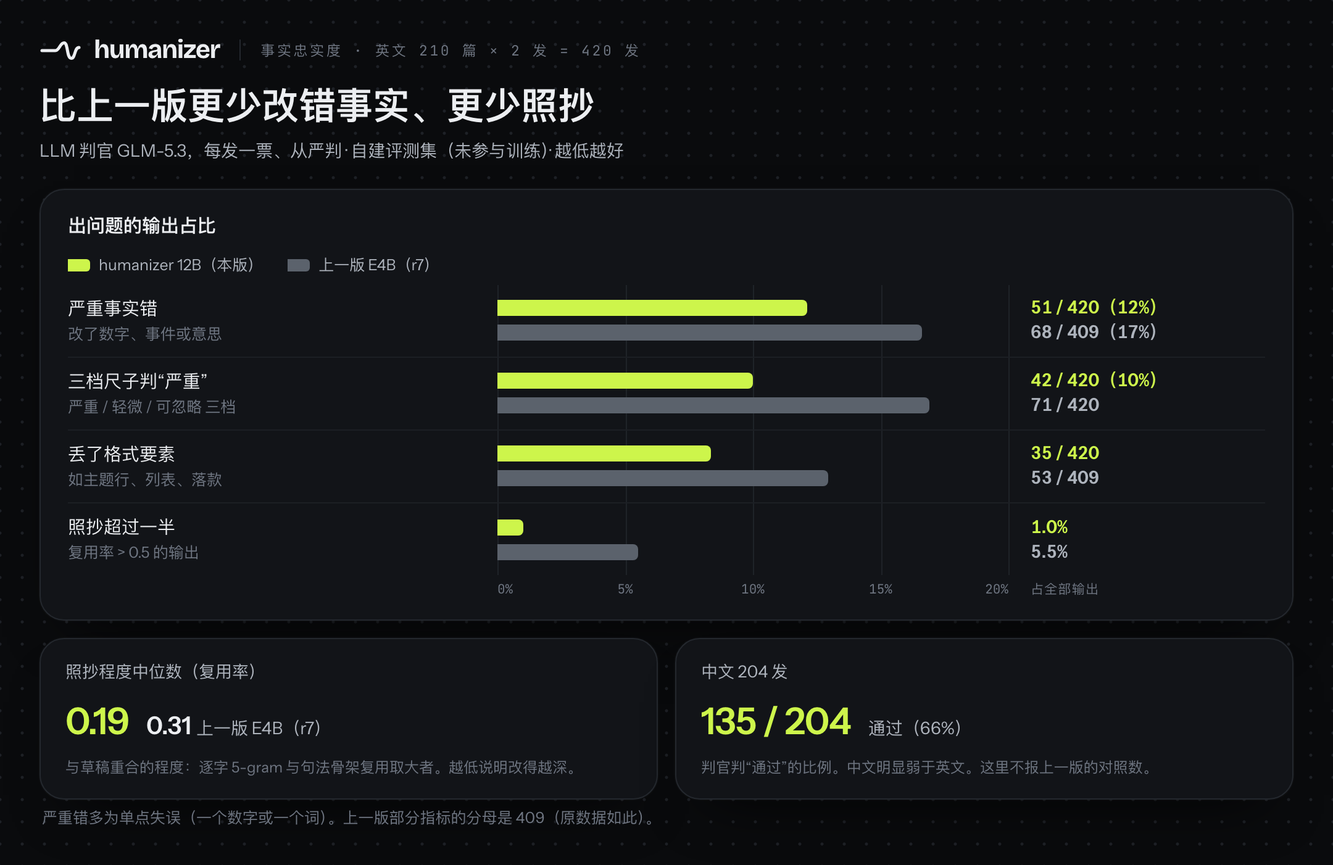
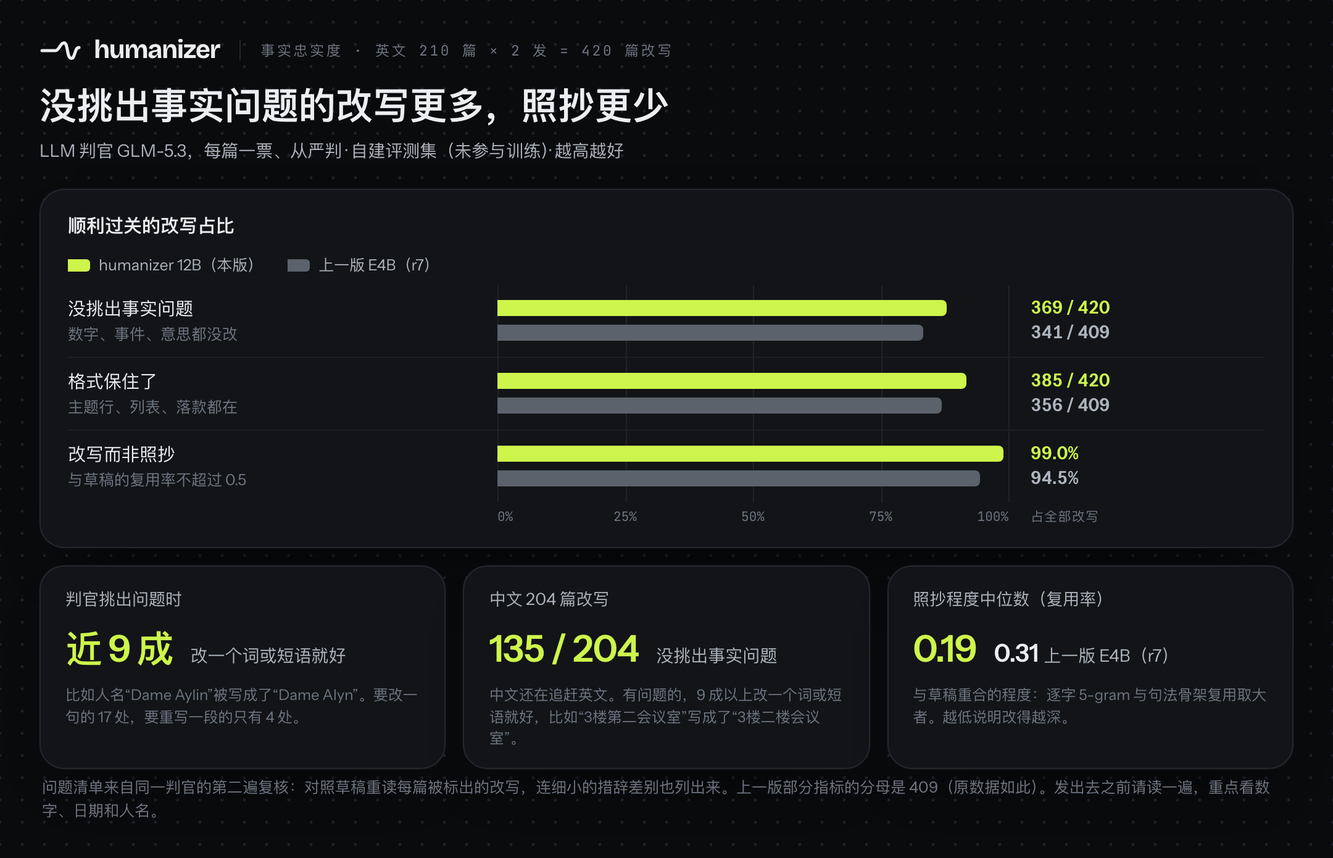
docs: describe fact fidelity by clean rewrites and fix size
Lead with how many rewrites had no factual problem (English 369/420 vs
341/409 for r7; Chinese 135/204) and how small the fixes are (nearly 9 in
10 English and more than 9 in 10 Chinese fixes are one word or phrase,
from a second judge pass over every flagged rewrite), with real examples.
Drop failure percentages and the three-tier severity row; keep the advice
to proofread numbers, dates and names. Redraw the fidelity chart.

Claude-Session: https://claude.ai/code/session_018dUyskQQUkZnxRhqQU9hXt

diff --git a/assets/src/fidelity.html b/assets/src/fidelity.html
@@ -21,6 +21,7 @@
   .legend span { display: inline-flex; align-items: center; gap: 7px; }
   .legend i { width: 18px; height: 10px; border-radius: 0 3px 3px 0; background: #5B626C; }
   .legend i.me { background: var(--lime); }
+  .tiles.t3 { grid-template-columns: 1fr 1fr 1fr; }
 </style>
 </head>
 <body>
@@ -30,38 +31,44 @@ import { lang, markSvg, esc, done } from './common.js';
 import { barRows, axis } from './chart.js';
 const zh = lang === 'zh';
 
-// 全部数字来自 release_facts.md「事实忠实度」一节(英文 420 发,GLM-5.3 单票从严)。条长按分数算,轴 0–20%。
-const MAX = 0.20;
+// 数字来自 release_facts.md「事实忠实度」一节(英文 420 发,GLM-5.3 单票从严)和 experiments/fact_errors/RLRt_summary.json
+// (第二遍复核:对照草稿重读每篇被标出的改写,列出每处问题和要改多少)。全图统一"越高越好",条长按分数算,轴 0–100%。
+// 事实错不报失败百分比:报"没挑出事实问题"的篇数 + 有问题时改一个词或短语就好的比例。
+const MAX = 1;
 const me = zh ? 'humanizer 12B（本版）' : 'humanizer 12B (this release)';
 const prev = zh ? '上一版 E4B（r7）' : 'previous E4B (r7)';
 const Q = zh ? [
-  ['严重事实错', '改了数字、事件或意思', [51 / 420, '51 / 420（12%）'], [68 / 409, '68 / 409（17%）']],
-  ['三档尺子判“严重”', '严重 / 轻微 / 可忽略 三档', [42 / 420, '42 / 420（10%）'], [71 / 420, '71 / 420']],
-  ['丢了格式要素', '如主题行、列表、落款', [35 / 420, '35 / 420'], [53 / 409, '53 / 409']],
-  ['照抄超过一半', '复用率 > 0.5 的输出', [0.010, '1.0%'], [0.055, '5.5%']],
+  ['没挑出事实问题', '数字、事件、意思都没改', [369 / 420, '369 / 420'], [341 / 409, '341 / 409']],
+  ['格式保住了', '主题行、列表、落款都在', [385 / 420, '385 / 420'], [356 / 409, '356 / 409']],
+  ['改写而非照抄', '与草稿的复用率不超过 0.5', [0.990, '99.0%'], [0.945, '94.5%']],
 ] : [
-  ['Severe fact error', 'changed a number, an event or the meaning', [51 / 420, '51 / 420 (12%)'], [68 / 409, '68 / 409 (17%)']],
-  ['“Severe” on a three-level scale', 'severe / minor / negligible', [42 / 420, '42 / 420 (10%)'], [71 / 420, '71 / 420']],
-  ['Dropped a format element', 'e.g. subject line, list, sign-off', [35 / 420, '35 / 420'], [53 / 409, '53 / 409']],
-  ['Copied more than half the draft', 'outputs with reuse > 0.5', [0.010, '1.0%'], [0.055, '5.5%']],
+  ['No factual problem found', 'no changed number, event or meaning', [369 / 420, '369 / 420'], [341 / 409, '341 / 409']],
+  ['Kept the format', 'subject line, lists, sign-off all there', [385 / 420, '385 / 420'], [356 / 409, '356 / 409']],
+  ['Rewritten, not copied', 'reuse of the draft at most 0.5', [0.990, '99.0%'], [0.945, '94.5%']],
 ];
 const T = zh ? {
-  eye: '事实忠实度 · 英文 210 篇 × 2 发 = 420 发', h: '比上一版更少改错事实、更少照抄',
-  sub: 'LLM 判官 GLM-5.3，每发一票、从严判 · 自建评测集（未参与训练）· 越低越好',
-  p: '出问题的输出占比', ax: '占全部输出',
+  eye: '事实忠实度 · 英文 210 篇 × 2 发 = 420 篇改写', h: '没挑出事实问题的改写更多，照抄更少',
+  sub: 'LLM 判官 GLM-5.3，每篇一票、从严判 · 自建评测集（未参与训练）· 越高越好',
+  p: '顺利过关的改写占比', ax: '占全部改写',
+  t0k: '判官挑出问题时', t0b: '近 9 成', t0s: '改一个词或短语就好',
+  t0n: '比如人名“Dame Aylin”被写成了“Dame Alyn”。要改一句的 17 处，要重写一段的只有 4 处。',
   t1k: '照抄程度中位数（复用率）', t1n: '与草稿重合的程度：逐字 5-gram 与句法骨架复用取大者。越低说明改得越深。',
-  t2k: '中文 204 发', t2n: '判官判“通过”的比例。中文明显弱于英文。这里不报上一版的对照数。', t2b: '135 / 204', t2s: '通过（66%）',
-  foot: '严重错多为单点失误（一个数字或一个词）。上一版部分指标的分母是 409（原数据如此）。',
+  t2k: '中文 204 篇改写', t2b: '135 / 204', t2s: '没挑出事实问题',
+  t2n: '中文还在追赶英文。有问题的，9 成以上改一个词或短语就好，比如“3楼第二会议室”写成了“3楼二楼会议室”。',
+  foot: '问题清单来自同一判官的第二遍复核：对照草稿重读每篇被标出的改写，连细小的措辞差别也列出来。上一版部分指标的分母是 409（原数据如此）。发出去之前请读一遍，重点看数字、日期和人名。',
 } : {
-  eye: 'Fact fidelity · English, 210 drafts × 2 samples = 420 outputs', h: 'Fewer changed facts and less copying than the previous release',
-  sub: 'LLM judge GLM-5.3, one strict vote per output · held-out eval set (not used in training) · lower is better',
-  p: 'Share of outputs with the problem', ax: 'of all outputs',
+  eye: 'Fact fidelity · English, 210 drafts × 2 samples = 420 rewrites', h: 'More rewrites with no factual problem, and less copying',
+  sub: 'LLM judge GLM-5.3, one strict vote per rewrite · held-out eval set (not used in training) · higher is better',
+  p: 'Share of rewrites that came through clean', ax: 'of all rewrites',
+  t0k: 'When the judge did find a problem', t0b: 'nearly 9 in 10', t0s: 'fixes are one word or phrase',
+  t0n: 'E.g. the name “Dame Aylin” came out as “Dame Alyn”. 17 fixes took one sentence; only 4 needed a passage rewritten.',
   t1k: 'Median reuse', t1n: 'Overlap with the draft: the larger of verbatim 5-gram copy and syntactic-skeleton reuse. Lower means a deeper rewrite.',
-  t2k: 'Chinese, 204 outputs', t2n: 'Passed by the judge. Chinese is clearly weaker than English. No previous-release comparison is reported here.', t2b: '135 / 204', t2s: 'passed (66%)',
-  foot: 'Severe errors are mostly single slips (one number or one word). Some previous-release rows have 409 judged outputs, as recorded.',
+  t2k: 'Chinese, 204 rewrites', t2b: '135 / 204', t2s: 'no factual problem found',
+  t2n: 'Still catching up with English. More than 9 in 10 fixes are one word or phrase, e.g. “3楼第二会议室” became “3楼二楼会议室”.',
+  foot: 'Problems were listed by a second pass of the same judge, which re-read each flagged rewrite against its draft and lists every nitpick, down to small wording nuances. Some previous-release rows have 409 judged rewrites, as recorded. Read numbers, dates and names before you send.',
 };
 
-const tk = ['0%', '5%', '10%', '15%', '20%'];
+const tk = ['0%', '25%', '50%', '75%', '100%'];
 document.getElementById('m').innerHTML = `
   <header class="hd"><span class="brand">${markSvg()}<b>humanizer</b></span><span class="eyebrow">${esc(T.eye)}</span></header>
   <h2>${esc(T.h)}</h2><p class="sub">${esc(T.sub)}</p>
@@ -74,9 +81,10 @@ document.getElementById('m').innerHTML = `
         <div class="vals"><b class="me">${esc(a[1])}</b><b>${esc(b[1])}</b></div></div>`).join('')}</div>
     ${axis(tk, T.ax)}
   </section>
-  <div class="tiles">
-    <section class="tile sheet"><div class="k">${esc(T.t1k)}</div><div class="v"><b>0.19</b><span><em>0.31</em>${esc(prev)}</span></div><div class="n">${esc(T.t1n)}</div></section>
+  <div class="tiles t3">
+    <section class="tile sheet"><div class="k">${esc(T.t0k)}</div><div class="v"><b>${esc(T.t0b)}</b><span>${esc(T.t0s)}</span></div><div class="n">${esc(T.t0n)}</div></section>
     <section class="tile sheet"><div class="k">${esc(T.t2k)}</div><div class="v"><b>${T.t2b}</b><span>${esc(T.t2s)}</span></div><div class="n">${esc(T.t2n)}</div></section>
+    <section class="tile sheet"><div class="k">${esc(T.t1k)}</div><div class="v"><b>0.19</b><span><em>0.31</em>${esc(prev)}</span></div><div class="n">${esc(T.t1n)}</div></section>
   </div>
   <p class="foot">${esc(T.foot)}</p>`;
 await done();

diff --git a/space/page.py b/space/page.py
@@ -176,10 +176,10 @@ def examples_section(examples) -> str:
   <h2 class="sec-title">{L("Real before and after", "改写前后，真实输出")}</h2>
   {P("Drafts from our held-out evaluation set, never seen in training. The right side is the released model's first sample, not edited; only whitespace is normalised. "
      "<span class='ins'>Highlight</span> = new wording, <span class='del'>strikethrough</span> = draft wording that was replaced. "
-     "We picked these for readability from samples our fact judge passed. Across the whole set the model does make fact errors; the rates are below.",
+     "We picked these for readability from samples our fact judge passed. Across the whole set the model does sometimes change a detail; how often, and how small, is below.",
      "草稿来自留出评测集，训练时从没见过。右边是发布版模型的第一发，未经任何修改，只统一了空白。"
      "<span class='ins'>荧光笔</span> = 新写的，<span class='del'>删除线</span> = 被改掉的原文。"
-     "这几篇是从事实判官判为通过的样本里挑的，为了好读；放到整个评测集上，模型是会改错事实的，比例见下方。",
+     "这几篇是从事实判官判为通过的样本里挑的，为了好读；放到整个评测集上，模型偶尔会改错细节，多常见、错得多小，见下方。",
      "sec-lede")}
   <div class="ex-wrap">
     {"".join(radios)}
@@ -264,11 +264,12 @@ def results_section() -> str:
         ("26 / 210", L("English drafts flagged as AI by Originality.ai", "篇英文草稿被 Originality.ai 判为 AI"),
          L("API v3, AI Allowance 0% (its strictest setting), measured 2026-10-01, first sample of each draft. 88% judged human.",
            "API v3，AI Allowance 0%（最严档），2026-10-01 实测，每篇取第 1 发。88% 判为人写。")),
-        ("51 / 420", L("English outputs with a severe fact error (12%)", "发英文输出有严重事实错（12%）"),
-         L("Changed a number, an event or the meaning. Strict LLM judge (GLM-5.3), one vote per output. Previous E4B release: 68 / 409 (17%).",
-           "改了数字、事件或意思。LLM 判官 GLM-5.3，每发一票、从严。上一版 E4B：68 / 409（17%）。")),
-        ("135 / 204", L("Chinese outputs passed the fact judge (66%)", "发中文输出通过事实判官（66%）"),
-         L("Chinese is clearly weaker than English.", "中文明显弱于英文。")),
+        ("369 / 420", L("English rewrites with no factual problem found", "篇英文改写，判官没挑出事实问题"),
+         L("Strict LLM judge (GLM-5.3), one vote per rewrite. Previous E4B release: 341 / 409. Where it did find a problem, nearly 9 in 10 fixes are a single word or phrase, like the name “Dame Aylin” coming out as “Dame Alyn”.",
+           "LLM 判官 GLM-5.3，每篇一票、从严。上一版 E4B：409 篇里 341 篇。有问题的，近 9 成改一个词或短语就好，比如人名“Dame Aylin”被写成了“Dame Alyn”。")),
+        ("135 / 204", L("Chinese rewrites with no factual problem found", "篇中文改写，判官没挑出事实问题"),
+         L("Chinese is still catching up with English. Where the judge found a problem, more than 9 in 10 fixes are a single word or phrase, like “3楼第二会议室” becoming “3楼二楼会议室”.",
+           "中文还在追赶英文。有问题的，9 成以上改一个词或短语就好，比如“3楼第二会议室”写成了“3楼二楼会议室”。")),
         ("0.19", L("median reuse of the draft", "照抄程度中位数（复用率）"),
          L("The larger of verbatim 5-gram copy and syntactic-skeleton reuse; lower means a deeper rewrite. Previous release: 0.31.",
            "取逐字 5-gram 照抄和句法骨架复用里较大的那个，越低改得越深。上一版：0.31。")),
@@ -311,10 +312,10 @@ def results_section() -> str:
 
 def limits_section() -> str:
     items = [
-        ("<b>It still makes fact errors.</b> 51 of 420 English outputs (12%) had a severe one by a strict LLM judge; most are a single number or word. Read the output before you use it.",
-         "<b>还是会改错事实。</b>英文 420 发里有 51 发（12%）被从严的 LLM 判官判出严重错，多数是错一个数字或一个词。用之前请通读。"),
-        ("<b>Chinese is weaker</b> than English: the judge passed 135 of 204 Chinese outputs (66%).",
-         "<b>中文弱于英文：</b>中文 204 发里判官判通过 135 发（66%）。"),
+        ("<b>It can still change a detail.</b> A strict LLM judge found no factual problem in 369 of 420 English rewrites; where it found one, nearly 9 in 10 fixes are a single word or phrase, such as a misspelled name. Read the result before you send it, especially numbers, dates and names.",
+         "<b>细节还可能出错。</b>英文 420 篇改写里，从严的 LLM 判官在 369 篇里没挑出事实问题；有问题的，近 9 成改一个词或短语就好，比如拼错一个人名。发出去之前还是请读一遍，重点看数字、日期和人名。"),
+        ("<b>Chinese is still catching up with English:</b> no factual problem in 135 of 204 Chinese rewrites; where there was one, more than 9 in 10 fixes are a single word or phrase.",
+         "<b>中文还在追赶英文：</b>中文 204 篇改写里 135 篇判官没挑出事实问题；有问题的，9 成以上改一个词或短语就好。"),
         ("<b>Templated genres still look machine-made to detectors:</b> social posts with emoji, hashtags or numbered threads (8/16 flagged) and formal policy memos (5/13).",
          "<b>模板化体裁仍容易被检测器认出：</b>带 emoji、井号或编号连载的社交帖（8/16 被判 AI），正式政策备忘（5/13）。"),
         ("<b>Formatting is not always kept.</b> 35 of 420 outputs dropped a format element. Paragraph breaks and list or heading markup sometimes change.",

diff --git a/README.md b/README.md
@@ -72,7 +72,7 @@ On stderr it lists every piece where a number from the draft is missing in the r
 
 ## Before and after
 
-Four drafts from the held-out evaluation set (never seen in training). The right side is the model's **first sample, not edited**; only whitespace is normalised for display. Highlight = new wording, strikethrough = draft wording that was replaced. We picked these four by hand for readability and checked every number and name in them. Across the whole set the model does make fact errors; the rates are in [Results](#results).
+Four drafts from the held-out evaluation set (never seen in training). The right side is the model's **first sample, not edited**; only whitespace is normalised for display. Highlight = new wording, strikethrough = draft wording that was replaced. We picked these four by hand for readability and checked every number and name in them. Across the whole set the model does sometimes change a detail; how often, and how small those slips are, is in [Results](#results).
 
 <img src="assets/compare-en-email.png" alt="Work email: draft and rewrite" width="100%">
 
@@ -128,21 +128,22 @@ The detection rate is the same as the previous release. What the 12B improves is
 
 <img src="assets/results-fidelity-en.png" alt="Fact fidelity compared with the previous release" width="100%">
 
-English, 420 outputs (210 drafts × 2), graded by an LLM judge (GLM-5.3), one strict vote per output. Lower is better.
+**369 of 420 English rewrites came back with no factual problem** from a strict LLM judge (GLM-5.3, one vote per rewrite; 210 drafts × 2 samples). The previous release: 341 of 409.
 
 | | **humanizer 12B (this release)** | humanizer E4B (previous, r7) |
 |---|---|---|
-| Severe fact error (changed a number, an event or the meaning) | **51 / 420 (12%)** | 68 / 409 (17%) |
-| "Severe" on a three-level scale (severe / minor / negligible) | **42 / 420 (10%)** | 71 / 420 |
-| Dropped a format element (e.g. subject line, list, sign-off) | **35 / 420** | 53 / 409 |
-| Median reuse (overlap with the draft) | **0.19** | 0.31 |
-| Outputs that reuse more than half the draft (reuse > 0.5) | **1.0%** | 5.5% |
+| No factual problem found (no changed number, event or meaning; higher is better) | **369 / 420** | 341 / 409 |
+| Dropped a format element (e.g. subject line, list, sign-off; lower is better) | **35 / 420** | 53 / 409 |
+| Median reuse (overlap with the draft; lower is better) | **0.19** | 0.31 |
+| Outputs that reuse more than half the draft (reuse > 0.5; lower is better) | **1.0%** | 5.5% |
 
 *Reuse* is the larger of verbatim 5-gram copy and syntactic-skeleton reuse; lower means a deeper rewrite. Some previous-release rows have 409 judged outputs instead of 420; that is how they were recorded.
 
-**Chinese:** of 204 outputs, the judge passed **135 (66%)**. Chinese is clearly weaker than English.
+**When the judge did find a problem, the fix is usually small.** A second pass of the same judge re-read every flagged rewrite against its draft and listed each problem with how much it takes to fix. It lists every nitpick it can find, down to small wording nuances. Nearly 9 in 10 of the fixes it listed (156 of 177) are a single word or short phrase, like the name "Dame Aylin" coming out as "Dame Alyn". 17 take one sentence; 4 need a passage rewritten.
 
-Most severe errors are a single slip: one number or one word. **Proofread numbers, dates, names and the direction of every claim before you send anything.** The app checks that every number in the draft also appears in the rewrite and flags the ones that don't (Arabic digits only).
+**Chinese is still catching up with English.** The judge found no factual problem in **135 of 204** Chinese rewrites (the other 69 include some that only added a little content). Where it did, more than 9 in 10 fixes (258 of 279) are a single word or phrase: "3楼第二会议室" (meeting room 2 on the 3rd floor) became "3楼二楼会议室" (the "2nd-floor meeting room" on the 3rd floor), and "2026年9月14日至9月20日" lost its year. 15 take one sentence; 6 need a passage rewritten.
+
+**Still, read the result before you send it**, especially numbers, dates, names and the direction of every claim. The app checks that every number in the draft also appears in the rewrite and flags the ones that don't (Arabic digits only).
 
 **Anti-copy resampling in the evaluation.** The evaluation pipeline resamples once, with a decoding-time penalty on copied 5-grams, when an output copies more than 35% of the draft. This happened for 0 of the 420 English outputs and 17 of the 204 Chinese outputs. The app never resamples automatically; if a rewrite copies too much, press *Regenerate*.
 
@@ -306,8 +307,8 @@ Measured on an M5 Max:
 
 ## Limitations
 
-- **It still makes fact errors.** 51 of 420 English outputs (12%) had a severe one by a strict LLM judge; most are a single number or word. Read the output before you use it.
-- **Chinese is weaker** than English: the judge passed 135 of 204 Chinese outputs (66%).
+- **It can still change a detail.** A strict LLM judge found no factual problem in 369 of 420 English rewrites; where it found one, nearly 9 in 10 fixes are a single word or phrase, such as a misspelled name. Read the result before you send it, especially numbers, dates and names.
+- **Chinese is still catching up with English:** no factual problem in 135 of 204 Chinese rewrites; where there was one, more than 9 in 10 fixes are a single word or phrase.
 - **Templated genres still look machine-made to detectors:** social posts with emoji, hashtags or numbered threads (8/16 flagged) and formal policy memos (5/13).
 - **Formatting is not always kept.** 35 of 420 outputs dropped a format element. Paragraph breaks and list or heading markup sometimes change.
 - **Register can drift in casual genres.** In Reddit-style posts it sometimes adds slang or profanity that wasn't in the draft.

diff --git a/README.zh.md b/README.zh.md
@@ -74,7 +74,7 @@ hz paper.md --json                    # 每块的统计,给脚本和 Agent 用
 
 ## 改写前后
 
-下面四篇草稿来自留出评测集（训练时从没见过）。右边是模型的**第一发，未经任何修改**，只为显示统一了空白。荧光笔 = 新写的，删除线 = 被改掉的原文。这四篇是我们为了好读手挑的，里面每个数字和人名都人工核对过；放到整个评测集上，模型是会改错事实的，比例见[评测结果](#评测结果)。
+下面四篇草稿来自留出评测集（训练时从没见过）。右边是模型的**第一发，未经任何修改**，只为显示统一了空白。荧光笔 = 新写的，删除线 = 被改掉的原文。这四篇是我们为了好读手挑的，里面每个数字和人名都人工核对过；放到整个评测集上，模型偶尔会改错细节，多常见、错得多小，见[评测结果](#评测结果)。
 
 <img src="assets/compare-zh-email.png" alt="中文工作邮件:草稿与改写" width="100%">
 
@@ -130,21 +130,22 @@ hz paper.md --json                    # 每块的统计,给脚本和 Agent 用
 
 <img src="assets/results-fidelity-zh.png" alt="与上一版的事实忠实度对比" width="100%">
 
-英文 420 发（210 篇 × 2 发），LLM 判官 GLM-5.3，每发一票、从严判。越低越好。
+**英文 420 篇改写里，有 369 篇判官没挑出事实问题**（LLM 判官 GLM-5.3，每篇一票、从严判；210 篇草稿 × 每篇 2 发）。上一版是 409 篇里 341 篇。
 
 | | **humanizer 12B（本版）** | humanizer E4B（上一版 r7） |
 |---|---|---|
-| 严重事实错（改了数字、事件或意思） | **51 / 420（12%）** | 68 / 409（17%） |
-| 三档尺子（严重 / 轻微 / 可忽略）判“严重” | **42 / 420（10%）** | 71 / 420 |
-| 丢了格式要素（如主题行、列表、落款） | **35 / 420** | 53 / 409 |
-| 照抄程度中位数（复用率） | **0.19** | 0.31 |
-| 复用率超过 0.5 的输出 | **1.0%** | 5.5% |
+| 没挑出事实问题（数字、事件、意思都没改；越高越好） | **369 / 420** | 341 / 409 |
+| 丢了格式要素（如主题行、列表、落款；越低越好） | **35 / 420** | 53 / 409 |
+| 照抄程度中位数（复用率；越低越好） | **0.19** | 0.31 |
+| 复用率超过 0.5 的输出（越低越好） | **1.0%** | 5.5% |
 
 *复用率*取逐字 5-gram 照抄和句法骨架复用两者中较大的那个，越低说明改得越深。上一版有几行的分母是 409 而不是 420，原始记录就是这样。
 
-**中文：**204 发里判官判“通过”的有 **135 发（66%）**。中文明显弱于英文。
+**判官挑出问题的，大多改一下就好。**我们让同一个判官再过一遍：对照草稿重读每篇被标出的改写，把每处问题和要改多少都列出来。这一遍连细小的措辞差别都会列。列出来的修改里，近 9 成（177 处里 156 处）改一个词或短语就好，比如人名“Dame Aylin”被写成了“Dame Alyn”；要改一句的 17 处，要重写一段的 4 处。
 
-严重错大多是单点失误：错一个数字或一个词。**发出去之前，请核对数字、日期、人名和每个论断的方向。**App 会检查草稿里的每个数字是否都出现在改写里，对不上的会标出来（只比阿拉伯数字）。
+**中文还在追赶英文。**中文 204 篇改写里，判官在 **135 篇**里没挑出事实问题（其余 69 篇里也包括只是多加了一点内容的）。有问题的，9 成以上（279 处里 258 处）改一个词或短语就好：比如“3楼第二会议室”写成了“3楼二楼会议室”，“2026年9月14日至9月20日”丢了年份。要改一句的 15 处，要重写一段的 6 处。
+
+**发出去之前还是请读一遍**，重点看数字、日期、人名和每个论断的方向。App 会检查草稿里的每个数字是否都出现在改写里，对不上的会标出来（只比阿拉伯数字）。
 
 **评测里的防照抄重采。**评测流程里，一发输出照抄草稿超过 35% 时，会在解码时对照抄的 5-gram 加惩罚、重采一次。英文 420 发里触发了 0 发，中文 204 发里触发了 17 发。App 不会自动重采；改写照抄太多时，请手动点“重新生成”。
 
@@ -308,8 +309,8 @@ ollama create humanizer -f Modelfile
 
 ## 局限
 
-- **还是会改错事实。**英文 420 发里有 51 发（12%）被从严的 LLM 判官判出严重错，多数是错一个数字或一个词。用之前请通读。
-- **中文弱于英文：**中文 204 发里判官判通过 135 发（66%）。
+- **细节还可能出错。**英文 420 篇改写里，从严的 LLM 判官在 369 篇里没挑出事实问题；有问题的，近 9 成改一个词或短语就好，比如拼错一个人名。发出去之前还是请读一遍，重点看数字、日期和人名。
+- **中文还在追赶英文：**中文 204 篇改写里 135 篇判官没挑出事实问题；有问题的，9 成以上改一个词或短语就好。
 - **模板化体裁仍容易被检测器认出：**带 emoji、井号或编号连载的社交帖（8/16 被判 AI），正式政策备忘（5/13）。
 - **格式不一定保得住。**420 发里有 35 发丢了格式要素；分段、列表和标题标记有时会变。
 - **随意体裁里语气会跑。**Reddit 一类的帖子里，它有时会加上原文没有的俚语或粗口。

diff --git a/docs/USAGE.md b/docs/USAGE.md
@@ -523,7 +523,7 @@ The copy ratio here is a rough measure (share of the rewrite's 5-word or 5-chara
 ## 11. Chinese
 
 - Use **the same English instruction**; don't translate it.
-- Chinese is **weaker than English**: our fact judge passed 135 of 204 Chinese outputs (66%).
+- Chinese is **still catching up with English**: our fact judge found no factual problem in 135 of 204 Chinese rewrites; where it found one, more than 9 in 10 fixes are a single word or phrase.
 - Chinese rewrites copy the draft more often. In the evaluation, the anti-copy resample (triggered above 35% copying) fired for 17 of 204 Chinese outputs and 0 of 420 English ones. If a rewrite looks too close to the draft, sample again; the batch script does this automatically.
 - **Numbers change form** more often in Chinese: Chinese numerals become digits (三 → 3) and dates get reformatted (6月14日 → 6.14). Digit-only checks, like the one in the app and in the batch script, can't see this. Check the numbers by reading.
 - Full-width and half-width punctuation may switch, and greeting, body and sign-off lines are sometimes merged into one paragraph. Fix the layout before sending.
@@ -531,7 +531,7 @@ The copy ratio here is a rough measure (share of the rewrite's 5-word or 5-chara
 
 ## 12. Quality checklist
 
-- **Read the rewrite once.** Check every number, date, unit and name, and the direction of every claim (who did what, more or less, before or after). On our evaluation set, 51 of 420 English outputs (12%) had a severe fact error, usually a single number or word.
+- **Read the rewrite once.** Check every number, date, unit and name, and the direction of every claim (who did what, more or less, before or after). On our evaluation set a strict judge found no factual problem in 369 of 420 English rewrites; where it found one, nearly 9 in 10 fixes are a single word or phrase, like a misspelled name.
 - **Restore formatting** you need: subject lines, lists, headings and sign-offs are sometimes dropped (35 of 420 outputs).
 - **Too close to the draft? Sample again.** Each run is a fresh sample.
 - **Casual genres can drift in register.** In Reddit-style posts it sometimes adds slang or profanity that wasn't in the draft; edit it out.

diff --git a/docs/USAGE.zh.md b/docs/USAGE.zh.md
@@ -523,7 +523,7 @@ if __name__ == "__main__":
 ## 11. 中文
 
 - 用**同一段英文指令**，不要翻译。
-- 中文**弱于英文**：我们的事实判官在 204 发中文输出里判通过 135 发（66%）。
+- 中文**还在追赶英文**：204 篇中文改写里，事实判官在 135 篇里没挑出问题；有问题的，9 成以上改一个词或短语就好。
 - 中文改写更容易照抄草稿。评测里，防照抄重采（照抄超过 35% 时触发）在中文 204 发里触发了 17 发，英文 420 发里是 0 发。改写看着和草稿太像就再采一次；批处理脚本会自动这样做。
 - 中文里**数字更常换写法**：汉字数字变成阿拉伯数字（三 → 3），日期改格式（6月14日 → 6.14）。App 和批处理脚本里那种只看阿拉伯数字的核对发现不了这类问题，请读一遍核对。
 - 全角、半角标点可能互换；问候、正文、落款有时会被并成一段。发出去之前把格式理一理。
@@ -531,7 +531,7 @@ if __name__ == "__main__":
 
 ## 12. 质量检查清单
 
-- **通读一遍改写。**核对每个数字、日期、单位和人名，以及每个论断的方向（谁做了什么、多还是少、先还是后）。在我们的评测集上，英文 420 发里有 51 发（12%）出现严重事实错，多数只错一个数字或一个词。
+- **通读一遍改写。**核对每个数字、日期、单位和人名，以及每个论断的方向（谁做了什么、多还是少、先还是后）。在我们的评测集上，英文 420 篇改写里有 369 篇判官没挑出事实问题；有问题的，近 9 成改一个词或短语就好，比如拼错一个人名。
 - **补回需要的格式：**主题行、列表、标题、落款有时会丢（420 发里有 35 发）。
 - **和草稿太像？再采一次。**每次都是重新采样。
 - **随意体裁里语气会跑。**Reddit 一类的帖子里，它有时会加上原文没有的俚语或粗口，请删掉。

diff --git a/AGENTS.md b/AGENTS.md
@@ -191,9 +191,9 @@ if missing: print("NOTE: numbers not found in this sample:", missing,
 
 - Send **one draft per request**. Our setup uses an 8192-token context, so the draft plus the rewrite must fit. For long or structured documents, use `hz` ([section 12](#12-long-and-complex-documents-use-hz)); it splits them for you. For a folder of `.txt` files, [USAGE.md section 9](https://github.com/sgaofen/humanize-model/blob/main/docs/USAGE.md#9-rewrite-a-whole-folder) has a batch script.
 - **Never edit the output silently**, and never tell the user the result is guaranteed to pass an AI detector. Detection numbers in the README are one measurement on one date.
-- **Ask the user to proofread** numbers, dates, names and the direction of each claim. On the evaluation set, 51 of 420 English outputs (12%) had a severe fact error, usually a single number or word. Compare the numbers in the draft and the output yourself and point out any that differ.
+- **Ask the user to proofread** numbers, dates, names and the direction of each claim. On the evaluation set a strict judge found no factual problem in 369 of 420 English rewrites; where it found one, nearly 9 in 10 fixes are a single word or phrase (for example a misspelled name). Compare the numbers in the draft and the output yourself and point out any that differ.
 - If an output copies most of the draft, or a number differs, **sample again** (same prompt; sampling is random).
-- Chinese is weaker than English (135 of 204 Chinese outputs passed the fact judge).
+- Chinese is still catching up with English (no factual problem in 135 of 204 Chinese rewrites; more than 9 in 10 fixes are a single word or phrase).
 - Formatting can change: paragraph breaks, lists and headings are sometimes dropped or merged.
 
 ## 10. Other runtimes

diff --git a/space/README.md b/space/README.md
@@ -31,8 +31,9 @@ before/after pairs from the held-out evaluation set are on the page and need no 
 [AGENTS.md](https://github.com/sgaofen/humanize-model/blob/main/AGENTS.md).
 
 **Measured, not promised:** on our 210 English evaluation drafts, Originality.ai (AI Allowance 0%,
-2026-10-01) flagged 26; a strict LLM judge found a severe fact error in 51 of 420 English outputs.
-Chinese is weaker (135 of 204 outputs passed the fact judge). Proofread every number, date and name.
+2026-10-01) flagged 26; a strict LLM judge found no factual problem in 369 of 420 English rewrites,
+and nearly 9 in 10 of the fixes it did list are a single word or phrase. Chinese is still catching up
+(no factual problem in 135 of 204). Still, read every number, date and name before you send it.
 
 **API:** `gradio_client` → `Client("jialinyyzz/humanizer").predict(draft, api_name="/humanize")` returns
 the rewrite plus copy rate and any numbers missing from it.
